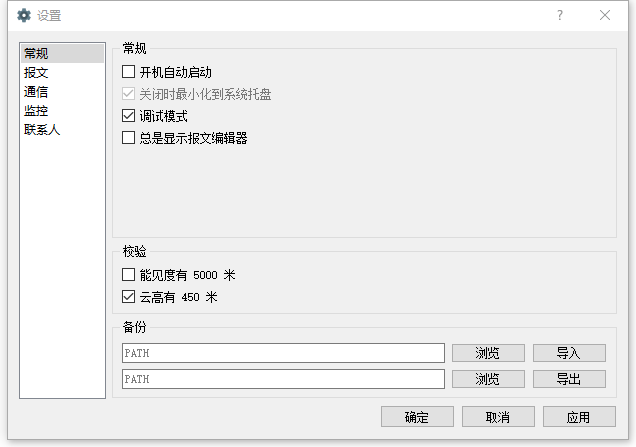
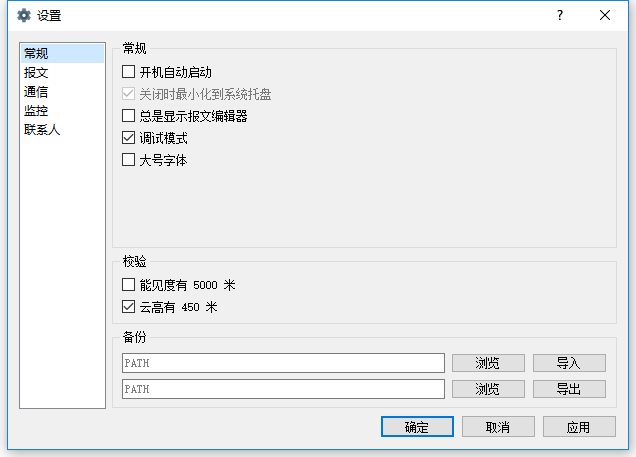
更新文档

diff --git a/docs/guide.rst b/docs/guide.rst
@@ -32,6 +32,7 @@
 
 表格右下角 ``蓝色箭头`` 为翻页按钮。
 
+表格右下角搜索框支持按日期过滤报文，如 `2018/03/17`，查询当日报文。
 
 .. note:: TAF 报文在发送后没有出现绿色对勾的标志，请务必检查报文是否正确发出。
 
@@ -44,12 +45,36 @@
 
 .. image:: /images/general_settings.png
 
-- **调试模式** 勾选后用于开启低级别的日志记录模式
+通用
+""""""""""""
+- **开机自动启动** 程序在系统启动时自动启动
 - **总是显示报文编辑器** 报文发送窗口打开时报文编辑器会默认隐藏，勾选后同时显示报文编辑器和发送窗口
+- **调试模式** 勾选后用于开启低级别的日志记录模式
+- **大号字体** 界面显示更换大号字体，重启后生效
 
 校验
 """"""""""""
 用于开启或者关闭 TAF 报文验证的阈值。
+
+备份
+""""""""""""
+设置导入导出支持 JSON 格式的配置文件，部分配置样例如下。
+
+.. code-block:: json
+
+    {
+      "Message/ICAO":"ZJHK",
+      "Monitor/WebApiURL":"https://tafor.herokuapp.com/remote/latest/zjhk.json",
+      "Communication/SerialPort":"COM1",
+      "Message/WeatherWithIntensity":"[\"RA\", \"SHRA\", \"TSRA\", \"SHGRRA\"]",
+      "General/Debug":"true"
+    }
+
+载入配置文件时，先点击 ``浏览`` 选择配置文件，再点击 ``导入`` 按钮。
+
+备份配置文件时，先点击 ``浏览`` 选择导出目录，再点击 ``导出`` 按钮。
+
+.. note:: 导入配置文件后会覆盖本机当前设置，使用时请注意备份好数据。
 
 
 报文参数
@@ -176,11 +201,11 @@ AFTN 参数
 
 .. code-block:: python
 
-    requests.post(:url, auth=('api', :token), data={'mobile': :mobile})
+    requests.post(url, auth=('api', token), data={'mobile': mobile})
 
-- **:url** 请求电话拨号服务的地址
-- **:token** 用于认证用户身份的密钥
-- **:mobile** 所要呼叫的手机号
+- **url** 请求电话拨号服务的地址
+- **token** 用于认证用户身份的密钥
+- **mobile** 所要呼叫的手机号
 
 .. note:: 认证 Token 需要电话服务网站注册账号后生成。
 
@@ -258,6 +283,10 @@ TAF 报文的编辑
 
 趋势报文的编辑
 -----------------
+
+.. image:: /images/trend_editor.png
+
+
 趋势预报选择 FM、TL、AT 时间组时，只能提前 150 分钟添加。
 
 首页会显示最近一次发布的趋势预报，如果最后一条记录是 NOSIG，则不会显示趋势相关信息。
